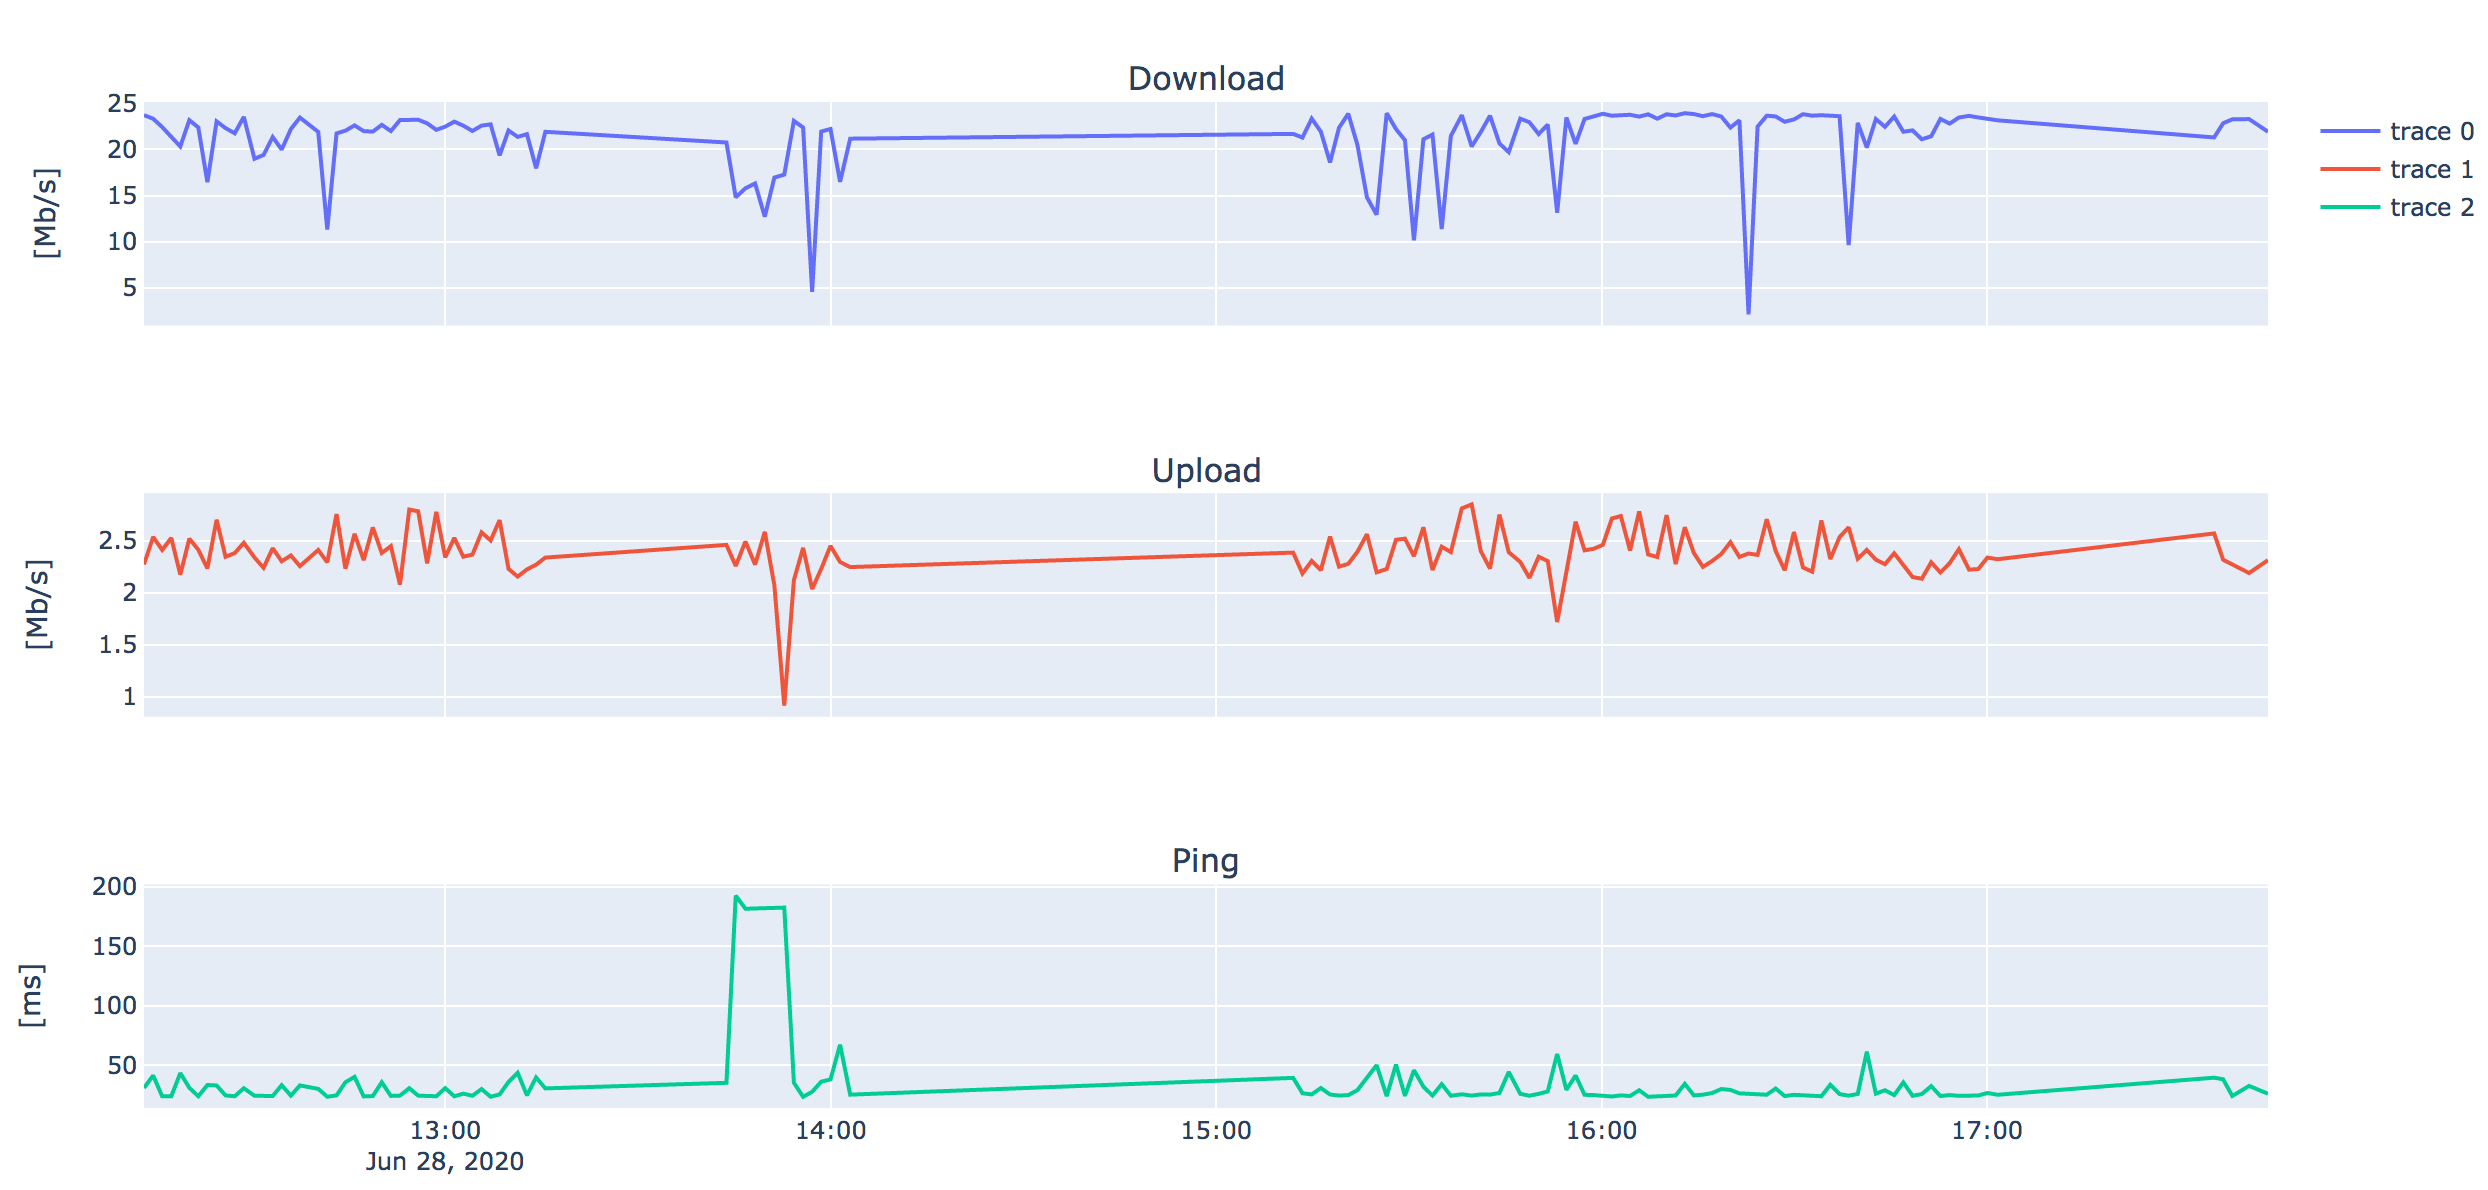
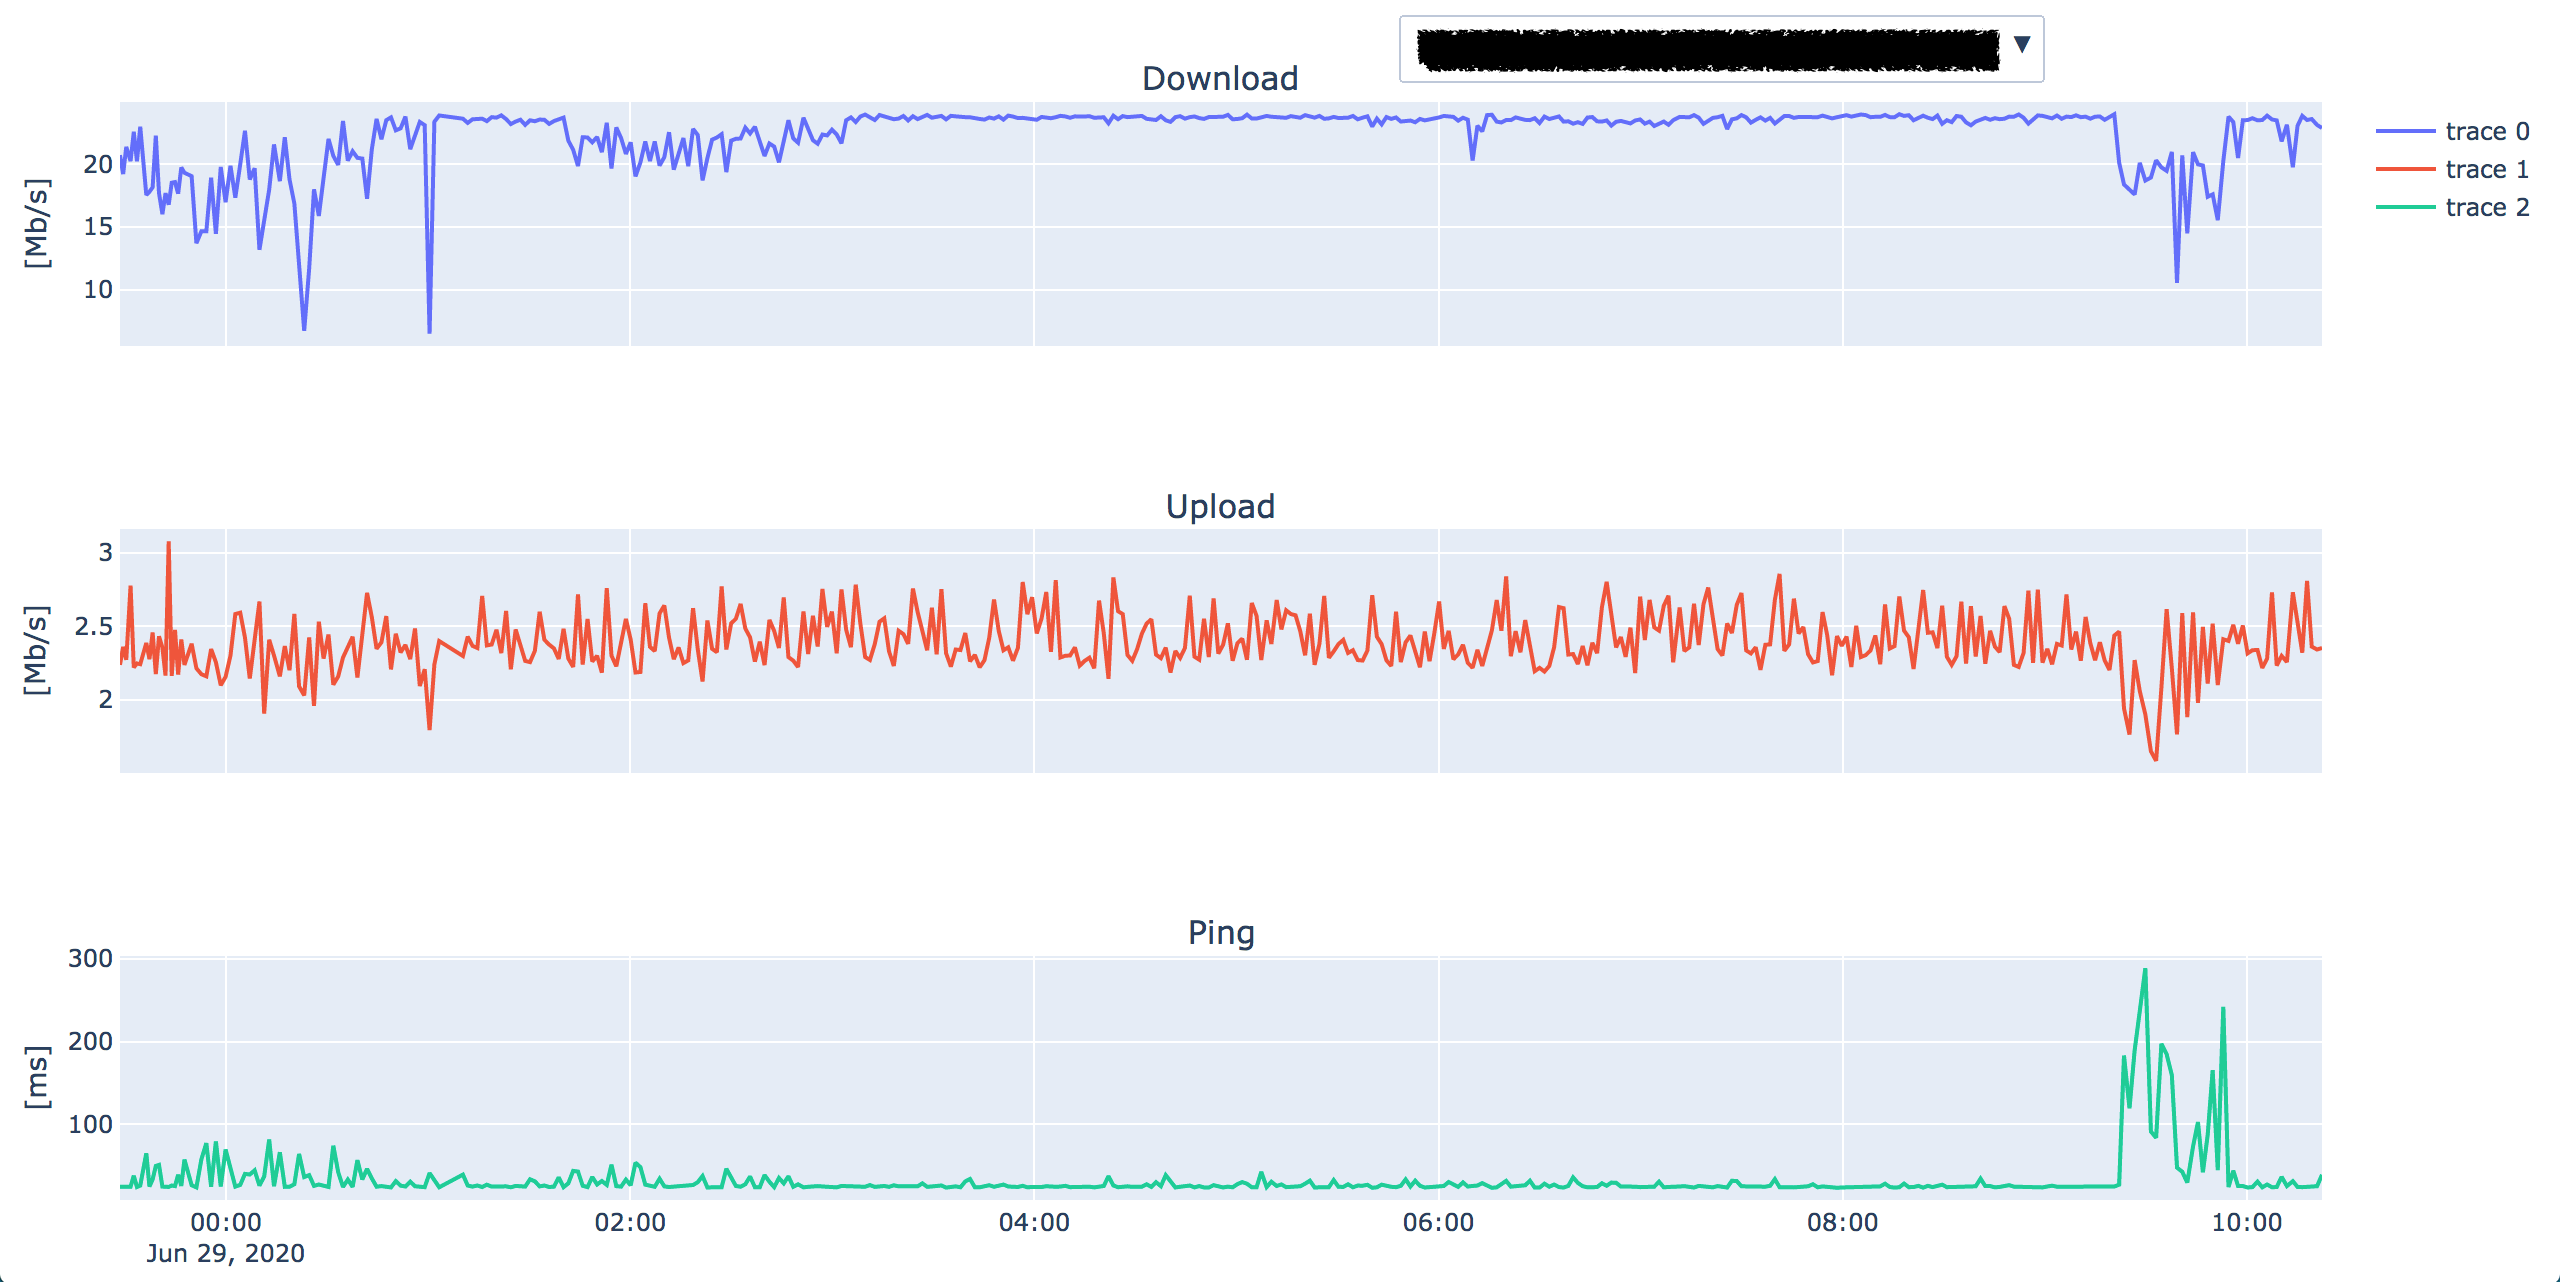
minor improvements to readme

diff --git a/README.md b/README.md
@@ -17,6 +17,7 @@ PLOT_CHART = True # it will plot some chart if you have any data every LOGBRIEF*
 ```
 
 **Chart Example**
+The new chart version supports more than one network test. For example, if you test in you house and then in your work, the chart will show you a dropdown menu so you can chose which one do you want to see.
 ![Download/Upload/Ping](images/chart_example.png?raw=true)
 
 ## How to use
